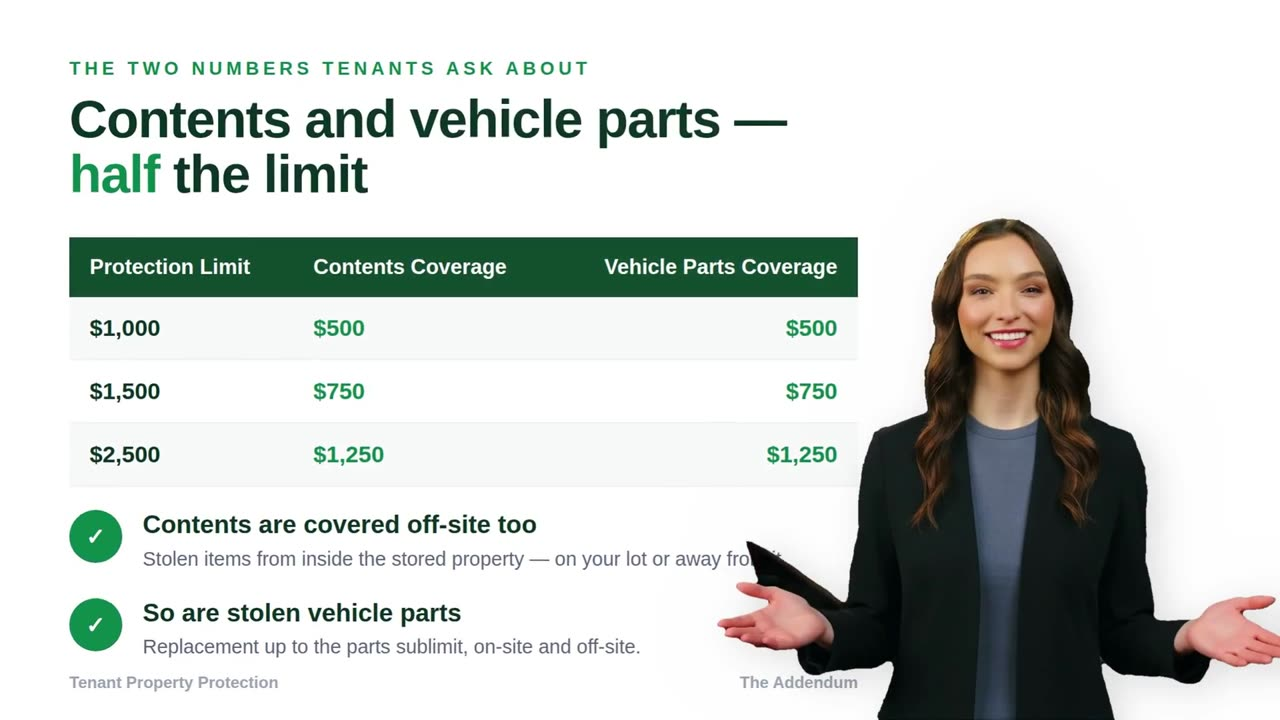
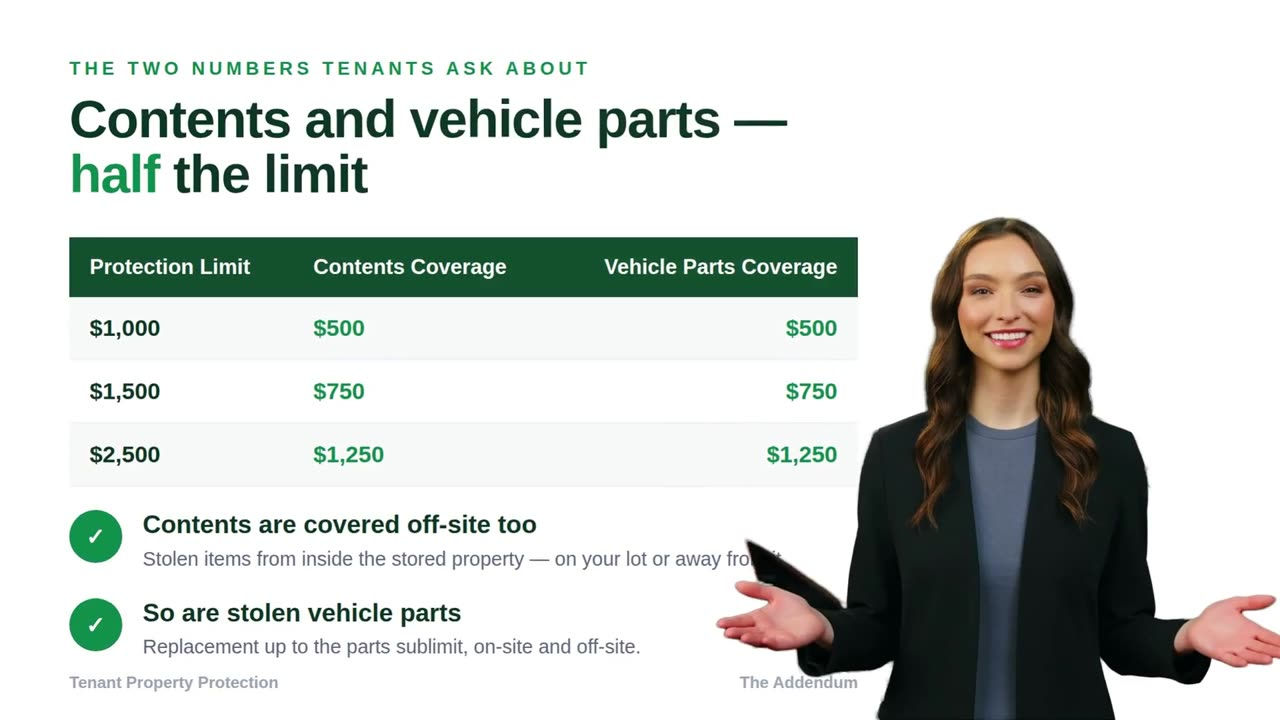
Version the video URLs so the new cut actually reaches people
The rebuilt courses replace the old ones at the same filenames, so any
browser that has played them today would serve its cached copy and the
update would look like it never landed. A version tag on the video and
poster URLs forces the fetch. Posters are re-cut from the new files.

Claude-Session: https://claude.ai/code/session_01SVBeaJqqY1w1riJ9JWxQJ1

diff --git a/index.html b/index.html
@@ -772,8 +772,8 @@ const VIDEOS = [
     /* the finished video, slides and presenter composited into one file —
        played inline on this page, and downloadable for anyone who wants
        the file rather than the interactive course */
-    download:'https://teond1090.github.io/tpp-secure-training/media/enhanced/tpp-secure.mp4',
-    poster:'media/posters/tpp-secure.jpg',
+    download:'https://teond1090.github.io/tpp-secure-training/media/enhanced/tpp-secure.mp4?v=2',
+    poster:'media/posters/tpp-secure.jpg?v=2',
     desc:'Our self-storage protection plan. Covers why tenants need it even when they think they’re '
        + 'covered, how to present it without sounding like a sales pitch, and the full claims process.',
     objs:['Why a protection plan is not insurance — and why that wording matters',
@@ -786,8 +786,8 @@ const VIDEOS = [
     sub:'Managers Onboarding to Success',
     len:'17 min',
     url:'https://teond1090.github.io/tpp-rv-parknprotect-training/',
-    download:'https://teond1090.github.io/tpp-rv-parknprotect-training/media/enhanced/rv-park-n-protect.mp4',
-    poster:'media/posters/rv-park-n-protect.jpg',
+    download:'https://teond1090.github.io/tpp-rv-parknprotect-training/media/enhanced/rv-park-n-protect.mp4?v=2',
+    poster:'media/posters/rv-park-n-protect.jpg?v=2',
     desc:'Protection for RVs, campers, trailers, boats and vehicles in your spaces — including the '
        + 'off-season coverage gap that catches most owners out, and how contents coverage travels with them.',
     objs:['Why most owners drop collision and comprehensive in the off season',
